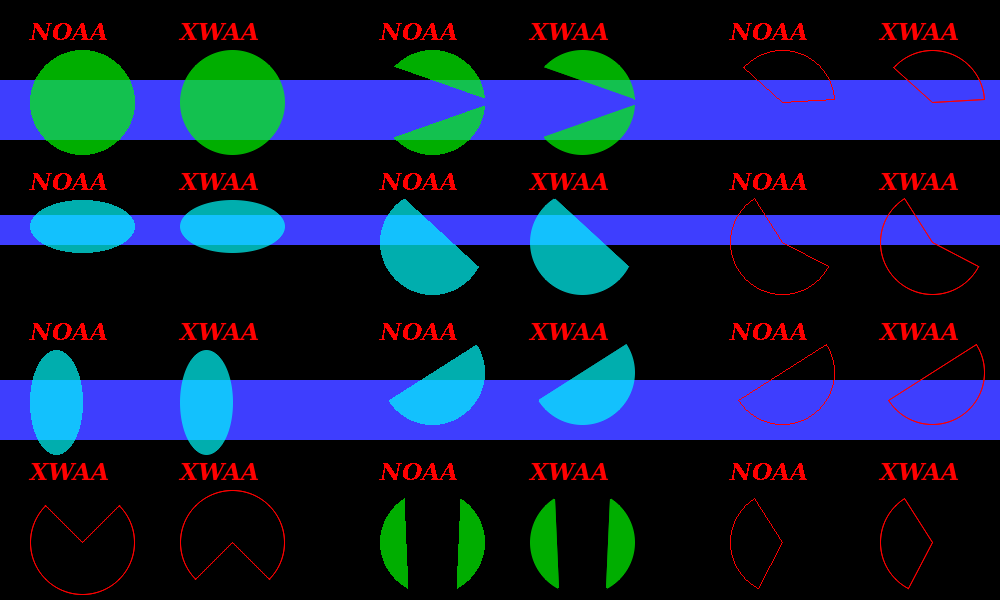
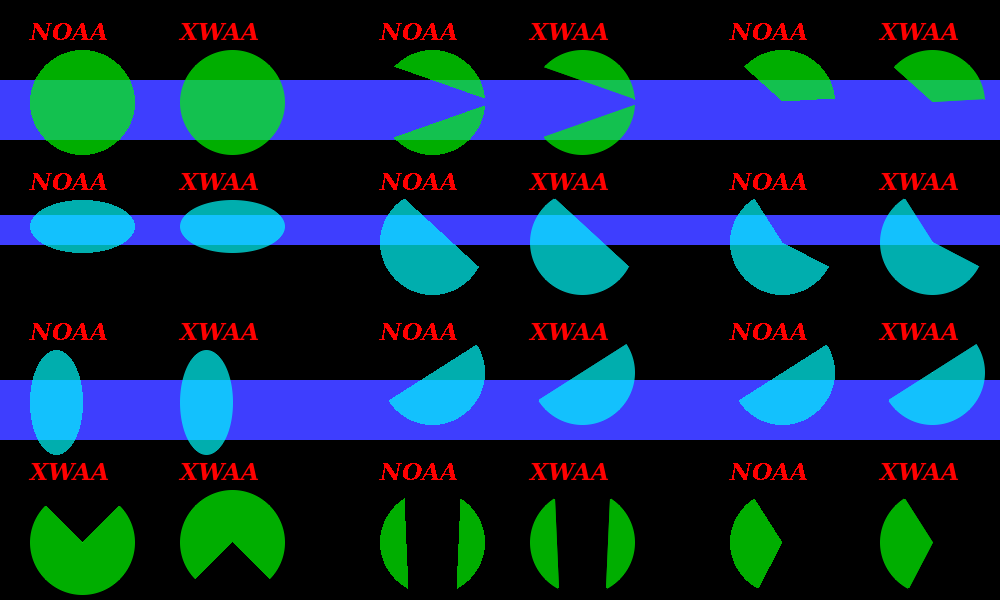
Working on fillArc - pie mode

diff --git a/src/Pt-Gfx/ImagePainter2_Arc.cpp b/src/Pt-Gfx/ImagePainter2_Arc.cpp
@@ -401,10 +401,6 @@ void ImagePainter2::arcUtil_genScanlinesForPie(Scanlines& scanlines1, Scanlines&
 
     //lprintf("%d %d\n", lineMinY, lineMaxY);
 
-    // Minimum and maximum X coordinates of the shape
-    //const Pt::int32_t xlMin = std::min(fai.x1, fai.x2);
-    //const Pt::int32_t xlMax = std::max(fai.x1, fai.x2);
-
     // Top and bottom halves
     for(Pt::int32_t x = 0; x <= fai.quartersX; ++x) {
         // Calculate the coordinate
@@ -413,9 +409,6 @@ void ImagePainter2::arcUtil_genScanlinesForPie(Scanlines& scanlines1, Scanlines&
         const Pt::int32_t yb = fai.ctrY + ( fai.antiAlias ? floor(y) : round(y) );
         const Pt::int32_t xl = fai.ctrX - x;
         const Pt::int32_t xr = fai.ctrX + x;
-        // Skip if the scanline will be completely outside the shape
-        //if(xwLine.faceL && xr < xlMin) continue;
-        //if(xwLine.faceR && xl > xlMax) continue;
         // Store/update the scanline coordinates
         arcUtil_cropAndStoreScanlineForPie(scanlines1, scanlines2, xwLine1, xwLine2, lineMinY, lineMaxY, xl, xr, yt);
         arcUtil_cropAndStoreScanlineForPie(scanlines1, scanlines2, xwLine1, xwLine2, lineMinY, lineMaxY, xl, xr, yb);
@@ -429,9 +422,6 @@ void ImagePainter2::arcUtil_genScanlinesForPie(Scanlines& scanlines1, Scanlines&
         const Pt::int32_t yb = fai.ctrY + y;
         const Pt::int32_t xl = fai.ctrX - ( fai.antiAlias ? floor(x) : round(x) );
         const Pt::int32_t xr = fai.ctrX + ( fai.antiAlias ? floor(x) : round(x) );
-        // Skip if the scanline will be completely outside the shape
-        //if(xwLine.faceL && xr < xlMin) continue;
-        //if(xwLine.faceR && xl > xlMax) continue;
         // Store/update the scanline coordinates
         arcUtil_cropAndStoreScanlineForPie(scanlines1, scanlines2, xwLine1, xwLine2, lineMinY, lineMaxY, xl, xr, yt);
         arcUtil_cropAndStoreScanlineForPie(scanlines1, scanlines2, xwLine1, xwLine2, lineMinY, lineMaxY, xl, xr, yb);
@@ -444,8 +434,8 @@ void ImagePainter2::arcUtil_cropAndStoreScanlineForPie(Scanlines& scanlines1, Sc
     typedef XWLineData::XWPoints::const_iterator XWPointsIterator;
 
     // Check if the scanline will be completely outside the shape
-    if( (xwLine1.faceT && y < lineMinY) || (xwLine2.faceT && y < lineMinY) ||
-        (xwLine1.faceB && y > lineMaxY) || (xwLine2.faceB && y > lineMaxY)
+    if( (xwLine1.faceT && y <= lineMinY) || (xwLine2.faceT && y <= lineMinY) ||
+        (xwLine1.faceB && y >= lineMaxY) || (xwLine2.faceB && y >= lineMaxY)
       ) return;
 
     // Get the element with the wanted coordinate from the left-side closing line
@@ -470,7 +460,7 @@ void ImagePainter2::arcUtil_cropAndStoreScanlineForPie(Scanlines& scanlines1, Sc
     Pt::int32_t xlc1 = xl;
     Pt::int32_t xrc1 = xr;
 
-    Pt::int32_t xlc2 = -1;
+    Pt::int32_t xlc2 = -1; // By default we do not have a second scanline
     Pt::int32_t xrc2 = xr;
 
     // Both lines are facing left

diff --git a/src/Pt-Gfx/tests/ImagePainterTest2.cpp b/src/Pt-Gfx/tests/ImagePainterTest2.cpp
@@ -49,7 +49,7 @@ using namespace Pt::Gfx;
 
 // Detailed-test enable settings for Pt-Gfx
 #define TEST_SOURCECOPY                         1
-#define TEST_SOURCEOVER                         0
+#define TEST_SOURCEOVER                         1
 
 #define TEST_DRAW_LINE_AND_TEXT                 0
 #define TEST_DRAW_RECTANGLES_FILLED_RECTANGLES  0
